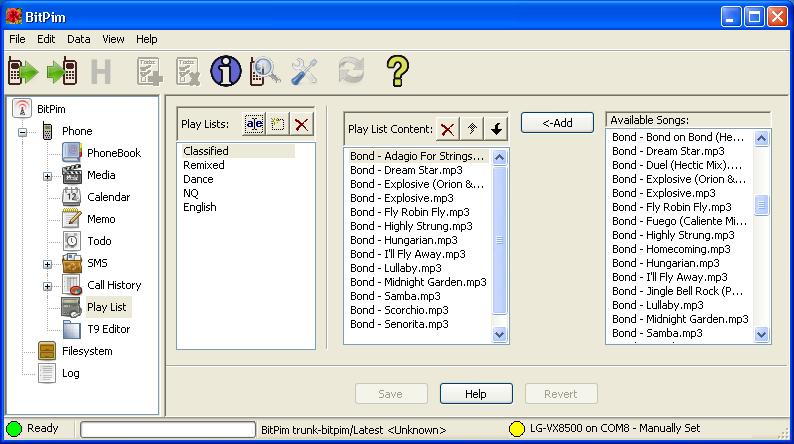
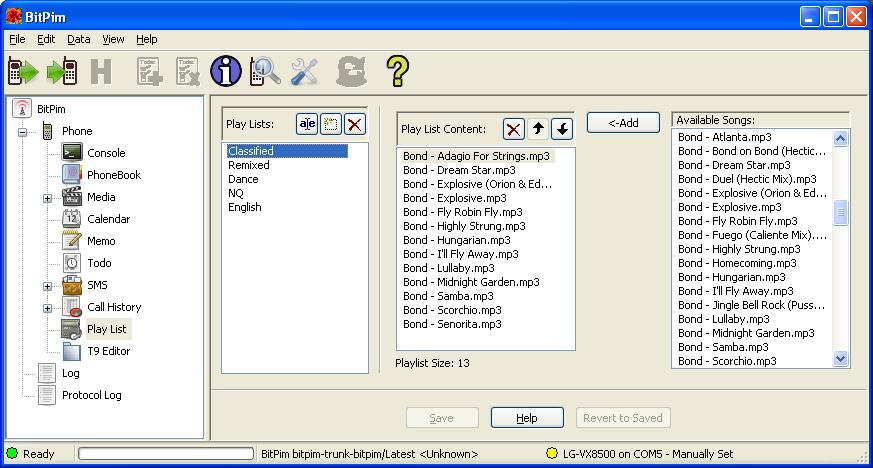
New feature: added playtlist count field display

Changed region(s): [[0.0, 0.0, 1.0, 1.0]]

diff --git a/src/playlist.py b/src/playlist.py
@@ -129,6 +129,7 @@ class PlaylistEntry(object):
 
 #-------------------------------------------------------------------------------
 class PlaylistWidget(wx.Panel, widgets.BitPimWidget):
+
     def __init__(self, mainwindow, parent):
         super(PlaylistWidget, self).__init__(parent, -1)
         self._mw=mainwindow
@@ -154,10 +155,14 @@ class PlaylistWidget(wx.Panel, widgets.BitPimWidget):
         # the detailed panel
         hbs1=wx.BoxSizer(wx.HORIZONTAL)
         # the playlist
+        _vbs1=wx.BoxSizer(wx.VERTICAL)
         self._pl_list=gizmos.EditableListBox(self, -1, "Play List Content:",
                                              style=gizmos.EL_ALLOW_DELETE)
         self._pl_list_w=self._pl_list.GetListCtrl()
-        hbs1.Add(self._pl_list, 1, wx.EXPAND|wx.ALL, 5)
+        _vbs1.Add(self._pl_list, 1, wx.EXPAND, 0)
+        self._count_lbl=wx.StaticText(self, -1, '')
+        _vbs1.Add(self._count_lbl, 0, wx.EXPAND|wx.TOP, 5)
+        hbs1.Add(_vbs1, 1, wx.EXPAND|wx.ALL, 5)
         _add_btn=wx.Button(self, -1, '<-Add')
         hbs1.Add(_add_btn, 0, wx.ALL, 5)
         self._master_list=gizmos.EditableListBox(self, -1, 'Available Songs:', style=0)
@@ -234,12 +239,14 @@ class PlaylistWidget(wx.Panel, widgets.BitPimWidget):
                 return i
     def _populate_each(self, name):
         self._pl_list_w.DeleteAllItems()
+        self._count_lbl.SetLabel('')
         if name is None:
             return
         self.ignoredirty=True
         _list_idx=self._name2idx(name)
         if _list_idx is not None:
             self._pl_list.SetStrings(self._data[_list_idx].songs)
+            self._count_lbl.SetLabel('Playlist Size: %d'%len(self._data[_list_idx].songs))
         self.ignoredirty=False
         if not self.dirty:
             self.setdirty(False)
